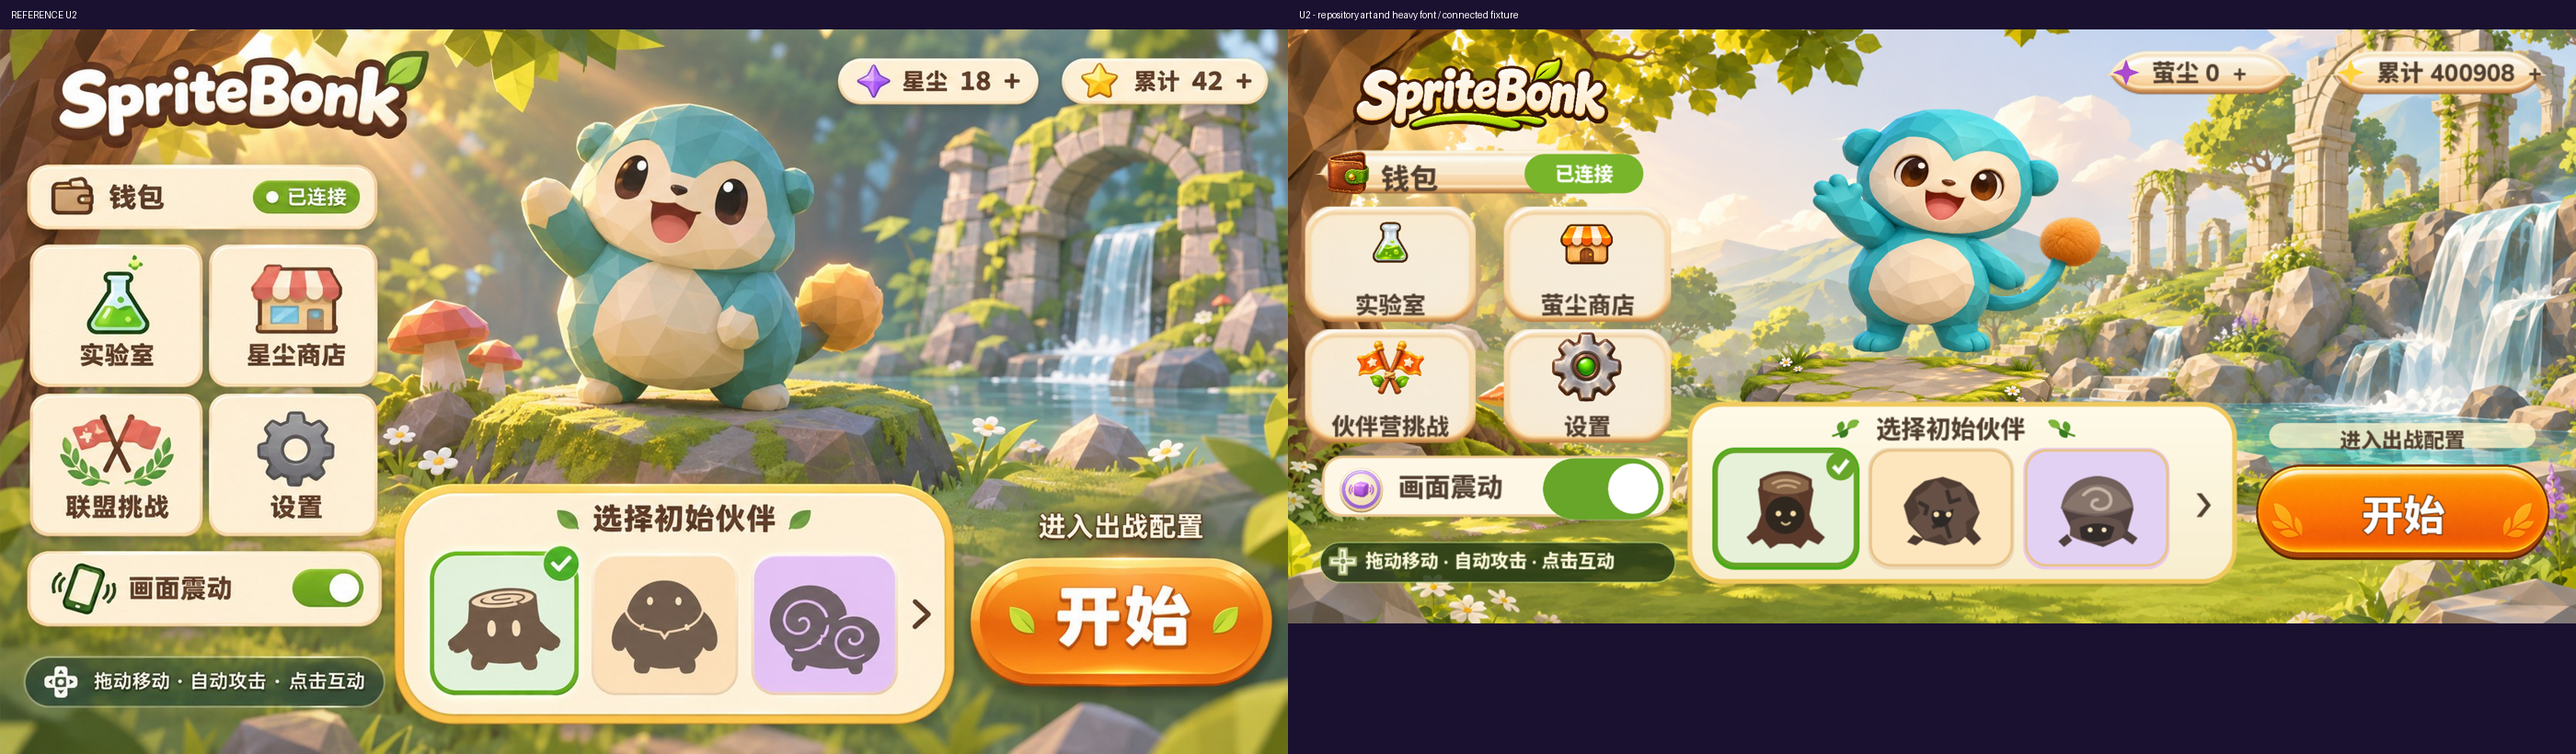
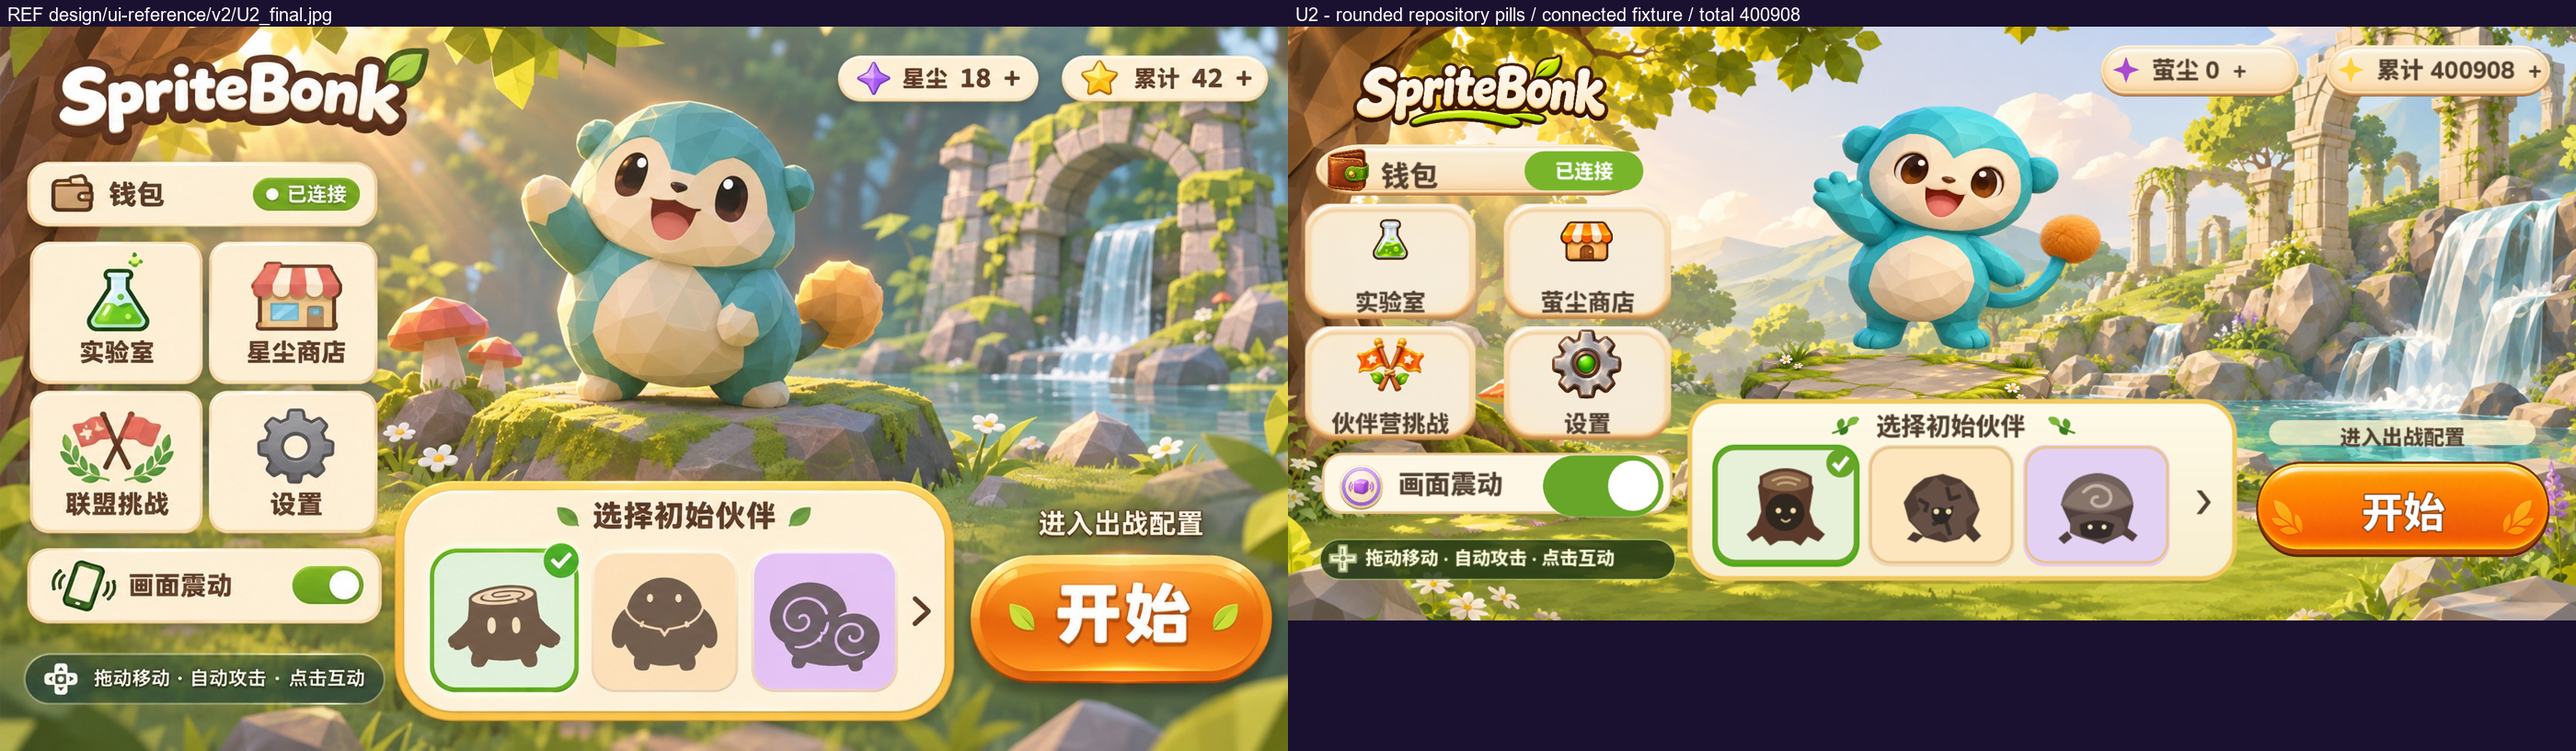
U2: render cream pills from the original rounded texture

diff --git a/Test/make_compare_u2.py b/Test/make_compare_u2.py
@@ -1,11 +1,11 @@
 #!/usr/bin/env python3
-"""Build design/ui-reference/compare/U2.png: v2 reference on top, fresh
-phonehud 2340 s150 menu shot below, each with a dark label bar.
+"""Build design/ui-reference/compare/U2.png: v2 reference on the left,
+phonehud menu shot on the right, preserving both aspect ratios.
 Usage: make_compare_u2.py <shot-png> [shot-label]"""
 import sys
 from PIL import Image, ImageDraw, ImageFont
 
-W = 1648
+W = 1400
 BAR = 29
 BAR_COLOR = (26, 16, 48)
 REF = "design/ui-reference/v2/U2_final.jpg"
@@ -18,15 +18,18 @@ ref = Image.open(REF).convert("RGB")
 shot = Image.open(shot_path).convert("RGB")
 rh = round(ref.height * W / ref.width)
 sh = round(shot.height * W / shot.width)
-canvas = Image.new("RGB", (W, BAR + rh + BAR + sh), BAR_COLOR)
+canvas = Image.new("RGB", (2 * W, BAR + max(rh, sh)), BAR_COLOR)
 d = ImageDraw.Draw(canvas)
-try:
-    font = ImageFont.truetype("/usr/share/fonts/truetype/dejavu/DejaVuSans.ttf", 20)
-except OSError:
-    font = ImageFont.load_default()
+font = ImageFont.load_default()
+for font_path in ["C:/Windows/Fonts/arial.ttf", "/usr/share/fonts/truetype/dejavu/DejaVuSans.ttf"]:
+    try:
+        font = ImageFont.truetype(font_path, 20)
+        break
+    except OSError:
+        continue
 d.text((8, 4), "REF " + REF, fill=(255, 255, 255), font=font)
 canvas.paste(ref.resize((W, rh)), (0, BAR))
-d.text((8, BAR + rh + 4), shot_label, fill=(255, 255, 255), font=font)
-canvas.paste(shot.resize((W, sh)), (0, BAR + rh + BAR))
+d.text((W + 8, 4), shot_label, fill=(255, 255, 255), font=font)
+canvas.paste(shot.resize((W, sh)), (W, BAR))
 canvas.save(OUT)
 print("wrote", OUT, canvas.size)

diff --git a/design/ui-alignment-progress.md b/design/ui-alignment-progress.md
@@ -178,3 +178,16 @@ U1 已重开，U3 不得开工（见「关闭门」）。第 9 轮：2340 复验
 - 上轮不应以定时任务代替当前连续施工。本轮继续 U2，先将菜单中文标题和开始按钮改用仓库已有的粗体字体链，修正与参考的字重差。
 - 本轮 `u2-font-fast` 双档菜单 **113/0**，震动往返 PASS，后台实拍已生成。完整游戏规则与摇杆布局未改。
 - 前几段新增台账曾因 PowerShell 到 Python 的编码转换损坏为问号，本轮只重建了自己的新增记录，原 `a0cf74e` 之前台账完整保留。
+
+## U2 药丸纹理续作
+
+- 实际加载的仓库按钮原图已导出核对，原图为圆头。定位到 U2 复用的通用九宫格切片在矮按钮上形成尖角，本轮仅对手机菜单钱包与资源药丸直接拉伸同一张 `button_cream.png`，保留点击和聚焦入口。
+- 首次并行快检与截图发生内存分配失败，旧截图时间未更新，未计新实拍成功。已改为两档依次执行再单独截图。`u2-pill-serial` 双档菜单均 **113/0**，仍记录 headless 退出时既有 free_static 错误。
+- 新后台实拍已生成，图形进程退出 **0**，截图日志无 SCRIPT ERROR，震动往返 PASS。目检钱包与两处资源药丸的尖角已消除。
+- 本轮全程复验按 2340 后 2400 逐档执行，`u2-pill-full-2340.log` 为 **1482/2**，`u2-pill-full-2400.log` 为 **1572/2**。两档仅余基线已有的抽屉自动收起、头像暂停可达，新失败为 0，祝福打开本轮通过。2400 七态原 home 与独立 ring clears 检查均通过。U2 关闭状态未改。
+- `Test/make_compare_u2.py` 已固定为左右对照并支持当前 Windows 字体路径，后续直接复用同一命令出图，减少手工拼图差异。
+
+## U2 下一轮差异清单
+
+- 继续保留仓库素材优先。现有三张 SVG 伙伴剪影仍比参考多出脸盘、折线和分层头盔，下一轮在同一 SVG 文件中修圆润轮廓、眼睛与旋涡，不改物种 key、玩法与已有 3D 模型。
+- 现有位图 Logo 自带绿下划线，参考没有。先核对仓库字形与叶片能否用现成字体和矢量件组成同版 Logo，避免重新生图。
